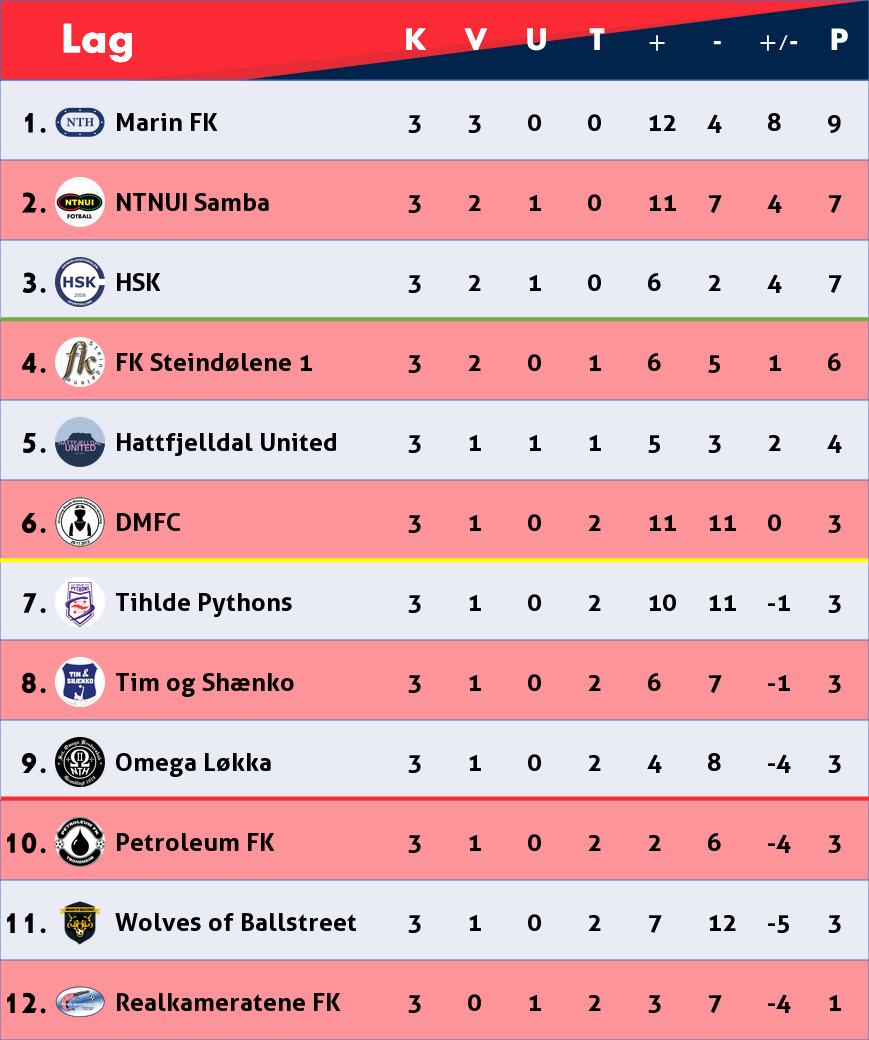
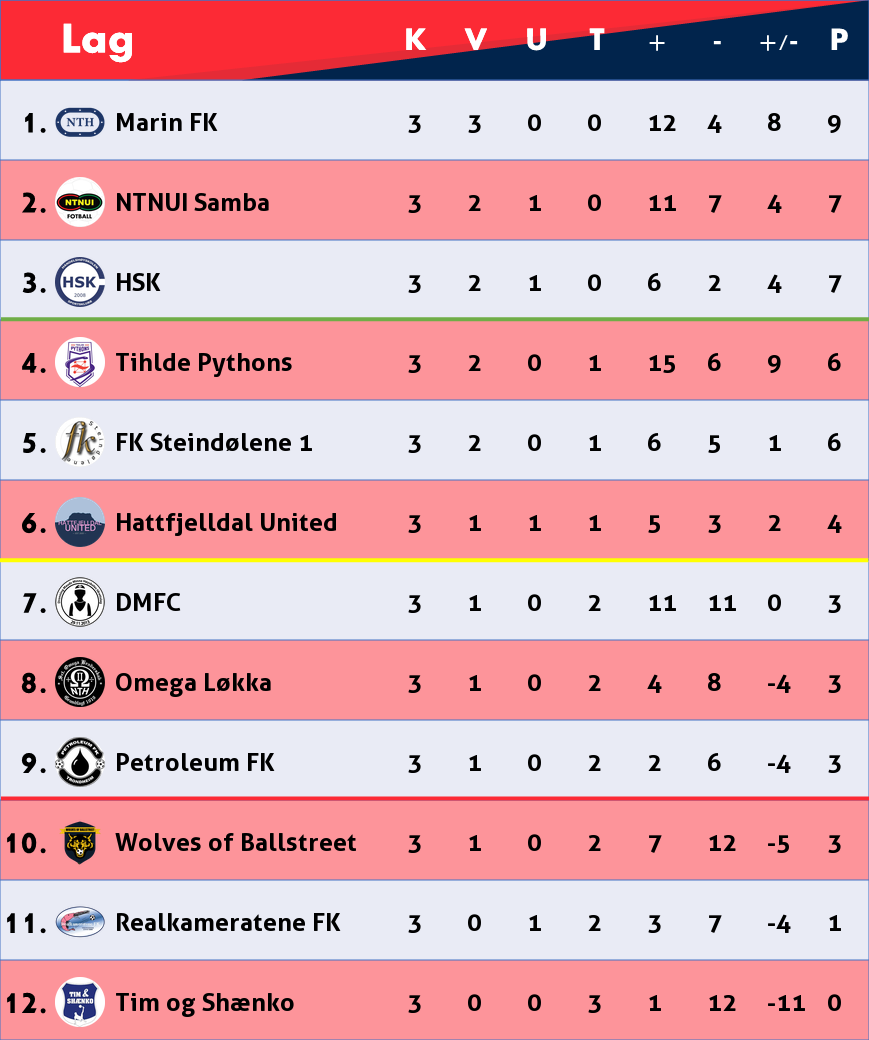
update

diff --git a/Scripts/TableGenerator.py b/Scripts/TableGenerator.py
@@ -144,6 +144,6 @@ def main(avd):
 
 
 # Velg avdeling: A = 0, B = 1
-avd = 0
+avd = 1
 
 main(avd)
